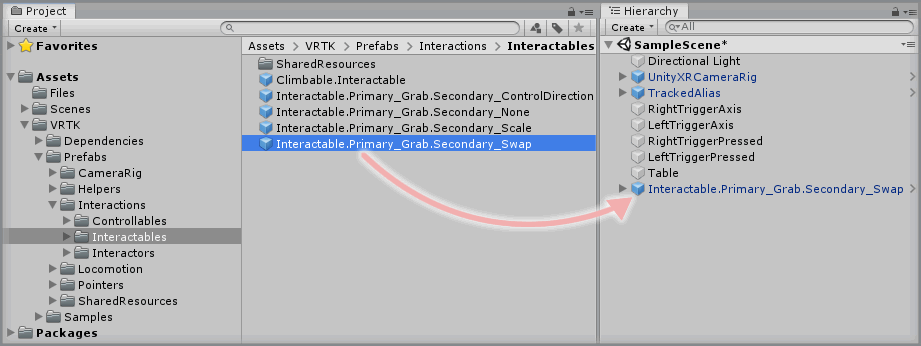
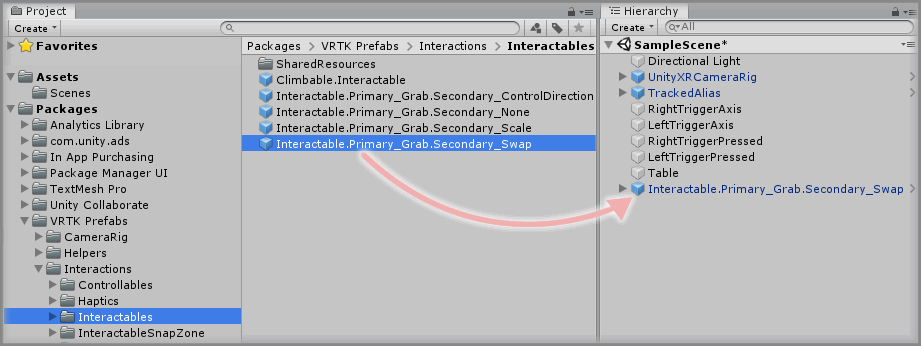
fix(HowToGuides): update adding an interactable guide
Update the guide to show the steps for needing the new VRTK Prefabs
repository.

Changed region(s): [[0.0, 0.2601, 0.2736, 0.8382], [0.0, 0.8671, 0.2736, 0.9827], [0.2736, 0.1156, 0.3952, 0.1445]]

diff --git a/Documentation/HowToGuides/Interactions/AddingAnInteractable/README.md b/Documentation/HowToGuides/Interactions/AddingAnInteractable/README.md
@@ -43,7 +43,7 @@ Create a new `Cube` Unity 3D Object by selecting `Main Menu -> GameObject -> 3D 
 
 ### Step 2
 
-Expand the VRTK directory in the Unity Project window until the `VRTK -> Prefabs -> Interactions -> Interactables` directory is visible then drag and drop the `Interactable.Primary_Grab.Secondary_Swap` prefab into the Unity Hierarchy window.
+Expand the VRTK Prefabs Package directory in the Unity Project window until the `Packages -> VRTK Prefabs -> Interactions -> Interactables` directory is visible then drag and drop the `Interactable.Primary_Grab.Secondary_Swap` prefab into the Unity Hierarchy window.
 
 ![Drag Interactable Into Hierarchy](assets/images/DragInteractableIntoHierarchy.png)
 
